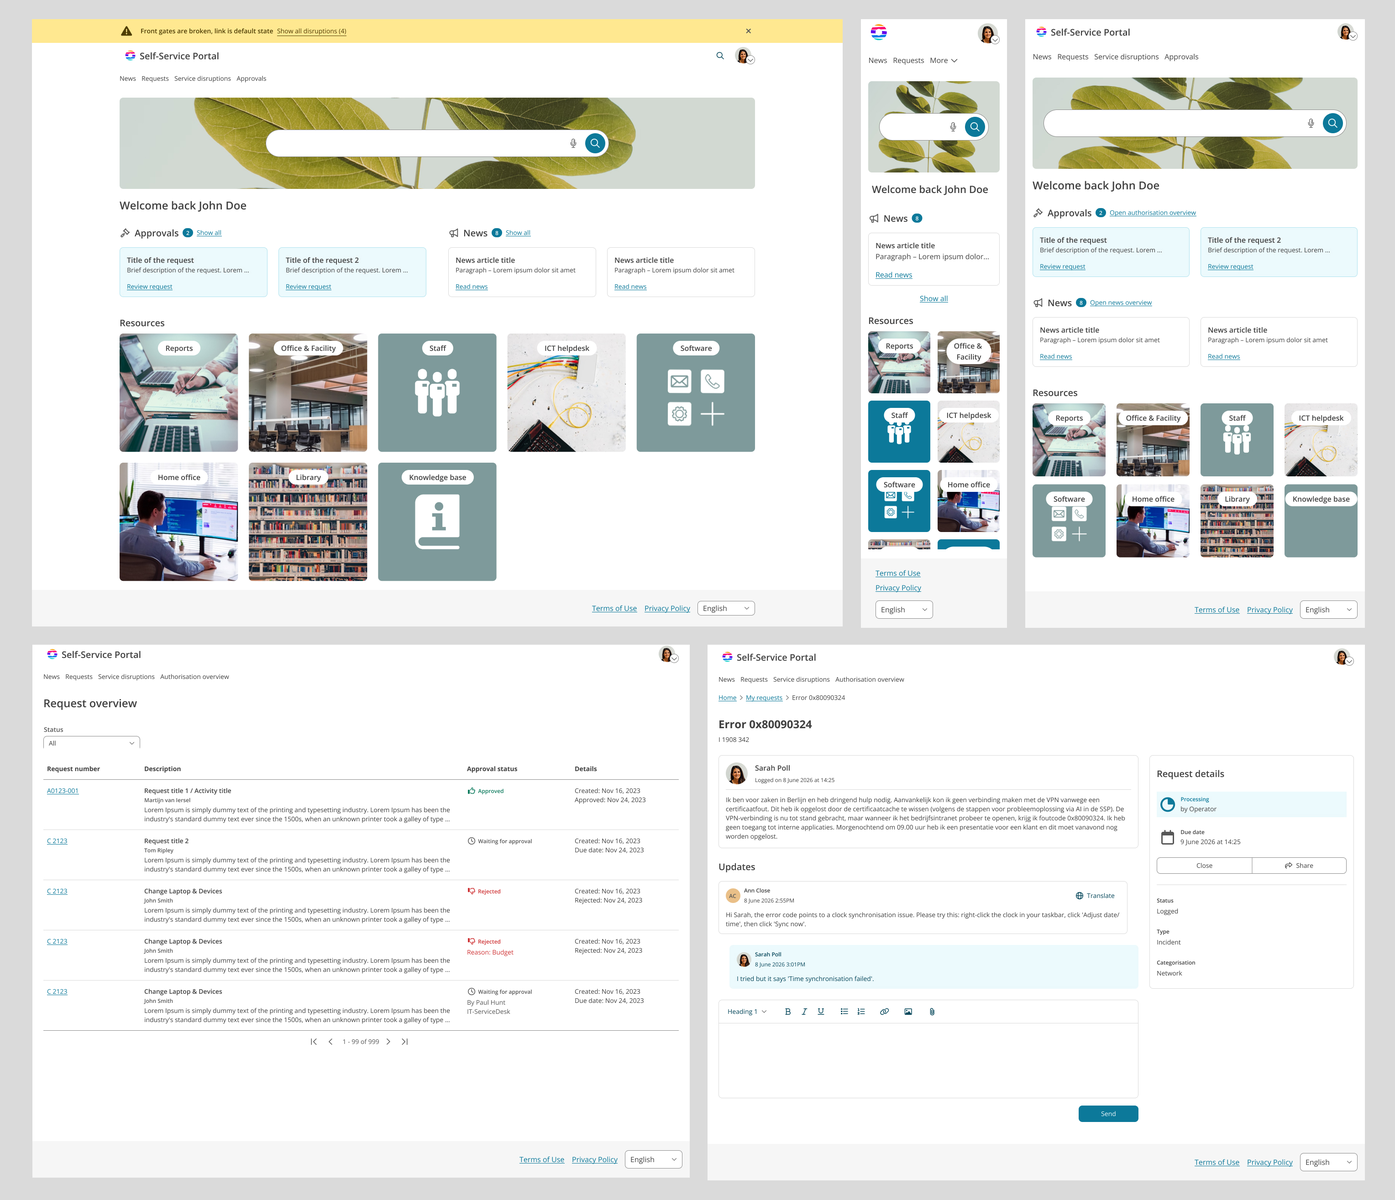
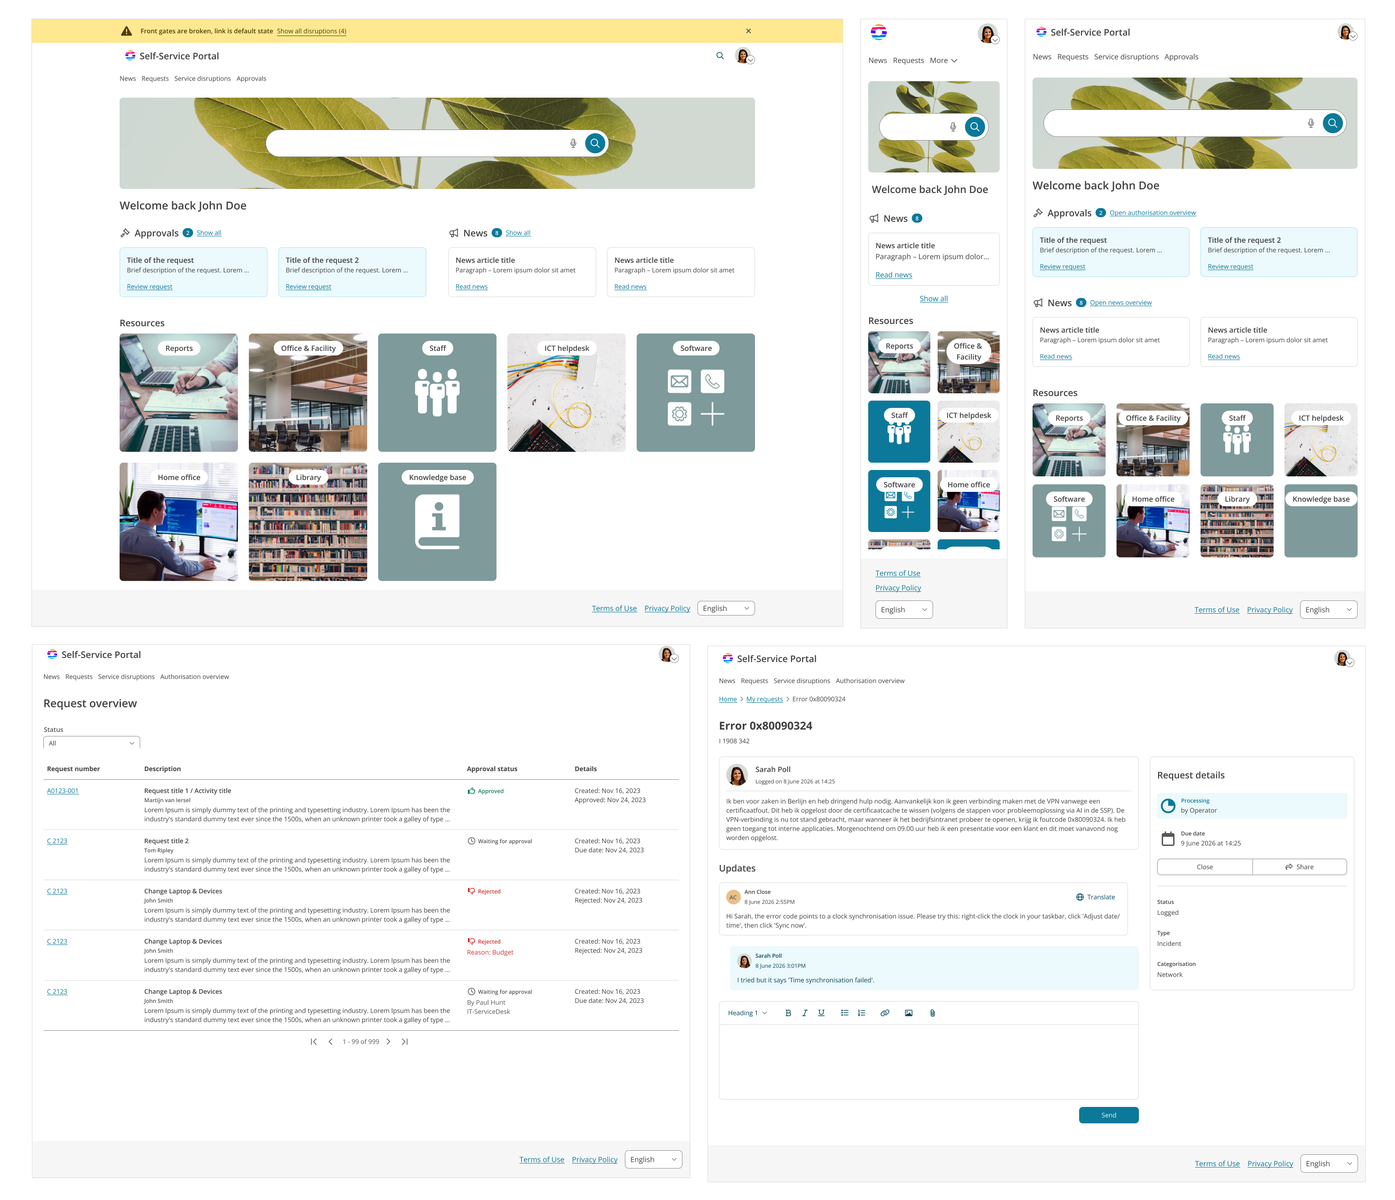
04.09
ssp changes

diff --git a/ssp.html b/ssp.html
@@ -15,8 +15,6 @@
   <link rel="stylesheet" href="assets/dropdown/css/style.css">
   <link rel="stylesheet" href="assets/socicon/css/styles.css">
   <link rel="stylesheet" href="assets/theme/css/style.css">
-  <link rel="preload" href="https://fonts.googleapis.com/css?family=Lexend:100,200,300,400,500,600,700,800,900&display=swap" as="style" onload="this.onload=null;this.rel='stylesheet'">
-  <noscript><link rel="stylesheet" href="https://fonts.googleapis.com/css?family=Lexend:100,200,300,400,500,600,700,800,900&display=swap"></noscript>
   <link rel="preload" as="style" href="assets/mobirise/css/mbr-additional.css?v=XyNmZl"><link rel="stylesheet" href="assets/mobirise/css/mbr-additional.css?v=XyNmZl" type="text/css">
 
   <style>
@@ -43,6 +41,24 @@
       letter-spacing: -0.01em;
       color: #1c1c1c;
     }
+
+    /* Project Overview: title + body on one line (title left, body flows after) */
+    .image2.cid-voI2S0cCSx .mbr-text .tblock { display: block; margin-bottom: 0.9rem; }
+    .image2.cid-voI2S0cCSx .mbr-text .thead {
+      display: inline;
+      font-weight: 700;
+      margin: 0;
+    }
+    .image2.cid-voI2S0cCSx .mbr-text .thead::after { content: ": "; }
+
+    /* Tighter spacing around the full-width image sections */
+    #image1-insights, #image1-crazy8, #image1-designs {
+      padding-top: 1.5rem !important;
+      padding-bottom: 1.5rem !important;
+    }
+    #image1-insights .image-wrapper img,
+    #image1-crazy8 .image-wrapper img,
+    #image1-designs .image-wrapper img { display: block; }
 
     /* Group each small heading with its text: keeps them together across the
        two-column break and uses tight spacing instead of double line breaks. */
@@ -138,7 +154,7 @@
             <div class="col-12 col-lg">
                 <div class="text-wrapper">
                     <h2 class="mbr-section-title mbr-fonts-style mb-3 display-5"><strong>Project Overview</strong><strong><br></strong></h2>
-                    <p class="mbr-text mbr-fonts-style display-7">As part of a broader product rewrite initiative, this project focused on redesigning the My Requests overview and the Incident Card within an enterprise self-service portal that is the end-user facing part of a service management tool.<br><br>I led the UX design for this initiative, working closely with a product manager, engineers, and external consultants. My scope included understanding system constraints, planning and conducting user research, exploring design solutions, and supporting technical reviews and design handover.<br><br>Timeline: 6 weeks Platform: Web-based self-service portal Users: Internal employees managing service requests and incidents<br><br>The redesign aimed to improve clarity, scannability, and consistency across different system configurations, helping users better understand request status and next steps.</p>
+                    <p class="mbr-text mbr-fonts-style display-7"><span class="tblock">As part of a broader product rewrite initiative, this project focused on redesigning the My Requests overview and the Incident Card within an enterprise self-service portal that is the end-user facing part of a service management tool.</span><span class="tblock"><strong class="thead">My Role</strong>I led the UX design for this initiative, working closely with a product manager, engineers, and external consultants. My scope included understanding system constraints, planning and conducting user research, exploring design solutions, and supporting technical reviews and design handover.</span><span class="tblock"><strong class="thead">Timeline</strong>6 weeks</span><span class="tblock"><strong class="thead">Platform</strong>Web-based self-service portal</span><span class="tblock"><strong class="thead">Users</strong>Internal employees managing service requests and incidents</span><span class="tblock"><strong class="thead">Objective</strong>The redesign aimed to improve clarity, scannability, and consistency across different system configurations, helping users better understand request status and next steps.</span></p>
                 </div>
             </div>
         </div>
@@ -162,7 +178,7 @@
             <div class="col-12 col-lg">
                 <div class="text-wrapper">
                     <h2 class="mbr-section-title mbr-fonts-style mb-3 display-5"><strong>Context &amp; Constraints </strong><br><strong>(Understanding the System)</strong></h2>
-                    <p class="mbr-text mbr-fonts-style display-7">Before initiating user research or design exploration, I focused on building a clear understanding of the Self-Service Portal’s underlying system and configuration constraints.<br><br>I scheduled a working session with an internal consultant from our organization who supports customer implementations and configures the Self-Service Portal for different clients. During this walkthrough, I gained an end-to-end view of the request and incident flows and a detailed understanding of the operator-side settings that directly influence what information can be surfaced in the UI.<br><br>Mapping these settings was a critical first step. It helped clarify what was technically possible, which configurations were commonly used by customers, and where flexibility or limitations existed. This system understanding informed early design decisions and directly shaped how I framed questions for the upcoming user research, ensuring that insights gathered would be grounded in real product capabilities rather than theoretical solutions.</p>
+                    <p class="mbr-text mbr-fonts-style display-7">Before any research or design exploration, I mapped the Self-Service Portal’s underlying system and configuration constraints with an internal consultant who configures the portal for customers.<br><br>This walkthrough gave me an end-to-end view of the request and incident flows and clarified which operator-side settings shape what the UI can show, what was technically possible, which configurations customers commonly use, and where the flexibility and limits were. It grounded both my early design decisions and the framing of the research questions in real product capabilities.</p>
                 </div>
             </div>
         </div>
@@ -186,7 +202,7 @@
             <div class="col-12 col-lg">
                 <div class="text-wrapper">
                     <h2 class="mbr-section-title mbr-fonts-style mb-3 display-5"><strong>Research Planning</strong></h2>
-                    <p class="mbr-text mbr-fonts-style display-7"><span class="tblock"><strong class="thead">Research Objective</strong>To understand how users find, track, and manage previously submitted requests within the Self-Service Portal, from the moment a request is sent through its resolution.</span><span class="tblock"><strong class="thead">Research Questions</strong>1. Post-Submission Journey<br>- What does the user journey look like after a request is submitted?<br>- What triggers users to revisit My Requests (e.g. concerns, updates, timelines, external influences)?<br>- How do users’ motivations and expectations change over time?<br>- What touchpoints exist beyond the portal, and how do they influence the experience?<br>- When do users consider their request journey successful?<br><br>2. Finding &amp; Managing Requests<br>- How do users search for and identify a specific request in My Requests?<br>- What mental models do users rely on (status, date, category, urgency)?<br>- Which filters or sorting options are used, expected, or missing?<br>- What information helps users quickly confirm they’ve found the correct request?<br><br>3. Interacting with a Specific Request<br>- What actions do users expect to take on an individual request or incident page?<br>- Which information do users focus on first, and why?<br>- What needs, uncertainties, or challenges arise at this stage?</span></p>
+                    <p class="mbr-text mbr-fonts-style display-7"><span class="tblock"><strong class="thead">Research Objective</strong>To understand how users find, track, and manage previously submitted requests within the Self-Service Portal, from the moment a request is sent through its resolution.</span><span class="tblock"><strong class="thead">Research Questions</strong>1. Post-Submission Journey<br>- What happens after a request is submitted, and what triggers users to revisit My Requests?<br>- How do motivations and expectations change over time, and when do users consider the journey successful?<br><br>2. Finding &amp; Managing Requests<br>- How do users search for and identify a specific request, and what mental models do they rely on?<br>- Which filters and sorting options are used, expected, or missing?<br><br>3. Interacting with a Specific Request<br>- What actions do users expect to take, and which information do they focus on first?<br>- What needs or uncertainties arise at this stage?</span></p>
                 </div>
             </div>
         </div>
@@ -301,24 +317,31 @@
     </div>
 </section>
 
-<section data-bs-version="5.1" class="image2 cid-voI74SDGJN" id="image2-2z">
-    
-
-    
-    
-
+<section data-bs-version="5.1" class="image1 cid-voI74SDGJN" id="image1-insights">
     <div class="container">
-        <div class="row align-items-center">
-            <div class="col-12 col-lg-5">
-                <div class="image-wrapper">
-                    <img src="assets/images/group206196-1256x1751.jpg" alt="Mobirise Website Builder">
-                    
-                </div>
-            </div>
-            <div class="col-12 col-lg">
+        <div class="row justify-content-center">
+            <div class="col-12">
                 <div class="text-wrapper">
                     <h3 class="mbr-section-title mbr-fonts-style mb-3 display-5"><strong>Design Explorations</strong></h3>
-                    <p class="mbr-text mbr-fonts-style display-7">Design exploration focused on translating research insights into clear, scalable solutions that could work across different system configurations. I explored multiple layout options to better express complex request information and experimented with different approaches to visual hierarchy to draw attention to the most important details, such as status, progress, and required user actions.<br><br>All concepts were built using existing design system components and guidelines to ensure consistency and feasibility within the product rewrite. I iterated on variations that addressed key user pain points identified in research, including difficulty scanning multiple requests, uncertainty about what to do next, and challenges identifying a specific request at a glance.<br><br>This was done through crazy 8 exercise with other designers, to come up with innovative solutions to address some tricky problems. As an example below you can see some sketches from this exercise on how improve the closing request feature on a card.<br><br>Throughout this phase, design decisions were continuously evaluated against user needs, system constraints, and long-term scalability, helping narrow down solutions that balanced clarity, flexibility, and technical viability.<br></p>
+                    <p class="mbr-text mbr-fonts-style display-7" style="margin-bottom: 1.5rem;">To facilitate ideation, I first laid out all the problems surfaced in user research. Having every pain point visible in one place made it easier to spot connections and kept the explorations anchored to real user needs.</p>
+                </div>
+                <div class="image-wrapper">
+                    <img src="assets/images/ssp-research-insights.png" alt="Research insights laid out: how and why users access the incident card, closing friction, and scrolling issues" style="width:100%;">
+                </div>
+            </div>
+        </div>
+    </div>
+</section>
+
+<section data-bs-version="5.1" class="image1 cid-voI74SDGJN" id="image1-crazy8">
+    <div class="container">
+        <div class="row justify-content-center">
+            <div class="col-12">
+                <div class="text-wrapper">
+                    <p class="mbr-text mbr-fonts-style display-7" style="margin-bottom: 1.5rem;">I then ran crazy 8 exercises with other designers to generate creative solutions for each problem. As an example, here is the crazy 8 round for closing a ticket which was for exploring ways to remove the double effort of adding a closing reason when a comment was already written.</p>
+                </div>
+                <div class="image-wrapper">
+                    <img src="assets/images/ssp-crazy8-closing.png" alt="Crazy 8 exercise for closing a ticket: problem statement and eight sketched variations of the incident card" style="width:100%;">
                 </div>
             </div>
         </div>
@@ -333,16 +356,16 @@
 
     <div class="container">
         <div class="row align-items-center">
-            <div class="col-12 col-lg-6">
+            <div class="col-12 col-lg-7">
                 <div class="image-wrapper">
-                    <img src="assets/images/image2071-1256x543.jpg" alt="Mobirise Website Builder">
+                    <img src="assets/images/ssp-tech-review.png" alt="Figma canvas with tech review explorations" style="width:100%;">
                     
                 </div>
             </div>
             <div class="col-12 col-lg">
                 <div class="text-wrapper">
                     <h3 class="mbr-section-title mbr-fonts-style mb-3 display-5"><strong>Tech Review</strong></h3>
-                    <p class="mbr-text mbr-fonts-style display-7">Early and ongoing technical reviews were conducted in collaboration with developers in the team to validate feasibility across different customer setups. These sessions helped identify which design ideas could be supported by existing configurations and where adjustments were needed to align with technical constraints.<br><br>Feedback from these reviews informed refinements to information hierarchy, component usage, and interaction patterns, ensuring that the proposed designs could be reliably implemented without introducing additional complexity or custom behavior.</p>
+                    <p class="mbr-text mbr-fonts-style display-7">The strongest ideas from the crazy 8 rounds were taken from wireframes to full UI, applying the design system guidelines, and brought to the team for review and further iterations.<br><br>Alongside this, early and ongoing technical reviews with developers validated feasibility across different customer setups identifying which ideas existing configurations could support and where adjustments were needed. Their feedback informed refinements to information hierarchy, component usage, and interaction patterns, so the designs could be implemented without extra complexity or custom behavior.</p>
                 </div>
             </div>
         </div>
@@ -366,7 +389,7 @@
             <div class="col-12 col-lg">
                 <div class="text-wrapper">
                     <h3 class="mbr-section-title mbr-fonts-style mb-3 display-5"><strong>User Validation</strong></h3>
-                    <p class="mbr-text mbr-fonts-style display-7">To validate some of the proposed design directions, I shared refined concepts with users to assess clarity, comprehension, and overall usability through an unmoderated user test. We used Useberry as a tool to conduct the test. <br><br>Tasks that were mainly evaluated :<br><br>Finding the original request description in the new layout<br>Sharing the request with colleagues<br>Closing the request<br><br><strong>Follow up questions</strong><br>1. How was the experience on an opinion scale<br>2. An open ended question explaining the experience<br><br><br><strong>Targeted expected response</strong><br>Atleast 20 participants<br><br><br><strong>Success criteria</strong><br>For each task a success threshold is an average rating of 5 or above<br>Responses will be paired with the open feedback <br><br>Feedback focused on how easily users could understand request status, identify relevant information, and anticipate next steps.<br><br>Insights from these sessions were used to fine-tune layouts, labeling, and emphasis, while confirming that the redesigned My Requests overview and Incident Card better supported users’ mental models compared to the existing experience.</p>
+                    <p class="mbr-text mbr-fonts-style display-7">To validate some of the proposed design directions, I shared refined concepts with users to assess clarity, comprehension, and overall usability through an unmoderated user test. We used Useberry as a tool to conduct the test. Tasks that were mainly evaluated :<br>- Finding the original request description in the new layout<br>- Sharing the request with colleagues<br>- Closing the request<br><br><strong>Follow up questions</strong><br>1. How was the experience on an opinion scale<br>2. An open ended question explaining the experience<br><br><strong>Targeted expected response</strong><br>Atleast 20 participants<br><br><strong>Success criteria</strong><br>For each task a success threshold is an average rating of 5 or above<br>Responses will be paired with the open feedback. Feedback focused on how easily users could understand request status, identify relevant information, and anticipate next steps.<br><br>Insights from these sessions were used to fine-tune layouts, labeling, and emphasis, while confirming that the redesigned My Requests overview and Incident Card better supported users’ mental models compared to the existing experience.</p>
                 </div>
             </div>
         </div>
@@ -390,7 +413,7 @@
             <div class="col-12 col-lg">
                 <div class="text-wrapper">
                     <h3 class="mbr-section-title mbr-fonts-style mb-3 display-5"><strong>Dev Handover</strong></h3>
-                    <p class="mbr-text mbr-fonts-style display-7">Final designs were prepared for handover as part of the product rewrite initiative. <br>This included:<br><br>1. Different screen sizes<br>2. Edge cases/corner cases<br>3. All the error and empty states<br>4. Accessible heading structure for screen readers<br>5. Making sure longer texts, custom field names and translations do not ruin the design<br><br>I worked closely with engineering to walk through the designs, clarify intent, and ensure a shared understanding of edge cases and system-driven behavior, helping support a smooth implementation phase.<br><br>Accessibility considerations were incorporated throughout the design process. I reviewed the designs against accessibility guidelines, with particular attention to color contrast, text hierarchy, focus order, and the use of visual cues beyond color alone.<br><br>Where needed, adjustments were made to ensure that critical information such as status and alerts remained perceivable and understandable for a wide range of users, supporting inclusive use of the Self-Service Portal.<br></p>
+                    <p class="mbr-text mbr-fonts-style display-7">Final designs were prepared for handover as part of the product rewrite initiative. This included:<br>1. Different screen sizes<br>2. Edge cases/corner cases<br>3. All the error and empty states<br>4. Accessible heading structure for screen readers<br>5. Making sure longer texts, custom field names and translations do not ruin the design<br><br>Accessibility considerations were incorporated throughout the design process. I reviewed the designs against accessibility guidelines, with particular attention to color contrast, text hierarchy, focus order, and the use of visual cues beyond color alone. Where needed, adjustments were made to ensure that critical information such as status and alerts remained perceivable and understandable for a wide range of users, supporting inclusive use of the Self-Service Portal.<br></p>
                 </div>
             </div>
         </div>
@@ -412,6 +435,20 @@
     </div>
 </section>
 
+<section data-bs-version="5.1" class="content15 cid-voIUMDwfci" id="content15-outcome">
+    <div class="container">
+        <div class="row justify-content-center">
+            <div class="card col-md-12 col-lg-12">
+                <div class="card-wrapper">
+                    <div class="card-box align-left">
+                        <h4 class="card-title mbr-fonts-style mbr-white mb-3 display-5"><strong>Outcome</strong></h4>
+                        <p class="mbr-text mbr-fonts-style display-7">The redesigned My Requests overview and Incident Card shipped as part of the product rewrite. Following the launch, adoption of the redesigned SSP increased by <b>15%</b> over a period of 3 months<strong>.</strong> Customers actively switched to the new experience, while feedback collected through the in-product channel was overwhelmingly positive where users found it easier to understand the status of their requests and what to do next.</p>
+                    </div>
+                </div>
+            </div>
+        </div>
+    </div>
+</section>
 <section data-bs-version="5.1" class="content15 cid-voIUMDwfci" id="content15-3r">
 
     
@@ -424,7 +461,7 @@
                 <div class="card-wrapper">
                     <div class="card-box align-left">
                         <h4 class="card-title mbr-fonts-style mbr-white mb-3 display-5"><strong>Reflections and Learnings</strong></h4>
-                        <p class="mbr-text mbr-fonts-style display-7">This project reinforced the importance of grounding design decisions in a strong understanding of system constraints, especially in highly configurable enterprise products. Early collaboration with consultants and engineers proved essential in shaping realistic and scalable solutions, and helped me avoid proposing directions that would not survive contact with real customer configurations.<br><br>I also learned the value of framing research questions around the broader post-submission journey, which helped uncover needs beyond the immediate UI and informed more meaningful design improvements. Talking to users about what happens before and after they visit My Requests surfaced expectations around communication and status changes that a screen-by-screen evaluation would have missed.<br><br>A key experiment in this project was using Claude to build a working coded prototype for user testing. Instead of testing static Figma flows, I prompted my designs into functional HTML prototypes with real interactions, such as filtering, status changes, and expandable request cards. This let participants explore the interface naturally rather than following a fixed click path, which produced more honest behavior and revealed usability issues that scripted prototypes tend to hide. It also made it cheap to adjust the prototype between sessions when an early finding suggested a better variant. Working this way changed how I think about the role of AI tools in the design process: less as a shortcut for visuals, more as a way to raise the fidelity of research signals.<br><br>If revisiting this project, I would further explore longitudinal validation to better understand how users’ needs evolve over the full lifecycle of a request, and invest earlier in testing edge-case configurations with real customer data.</p>
+                        <p class="mbr-text mbr-fonts-style display-7">This project was a practical reminder that designing for an enterprise product means working with its constraints, not around them. Involving consultants and engineers early helped us identify what was technically feasible and avoid solutions that would not scale across different customer configurations. Looking at the full journey after submission also uncovered gaps we would have otherwise missed.<br><br>One useful experiment was building a coded prototype with Claude for user testing. Participants could filter requests, change statuses, and expand cards as they would in the product. This led to more natural interactions and exposed issues that were difficult to observe in a scripted Figma prototype. It was also quick to update between sessions as new feedback emerged.</p>
                         
                     </div>
                 </div>
